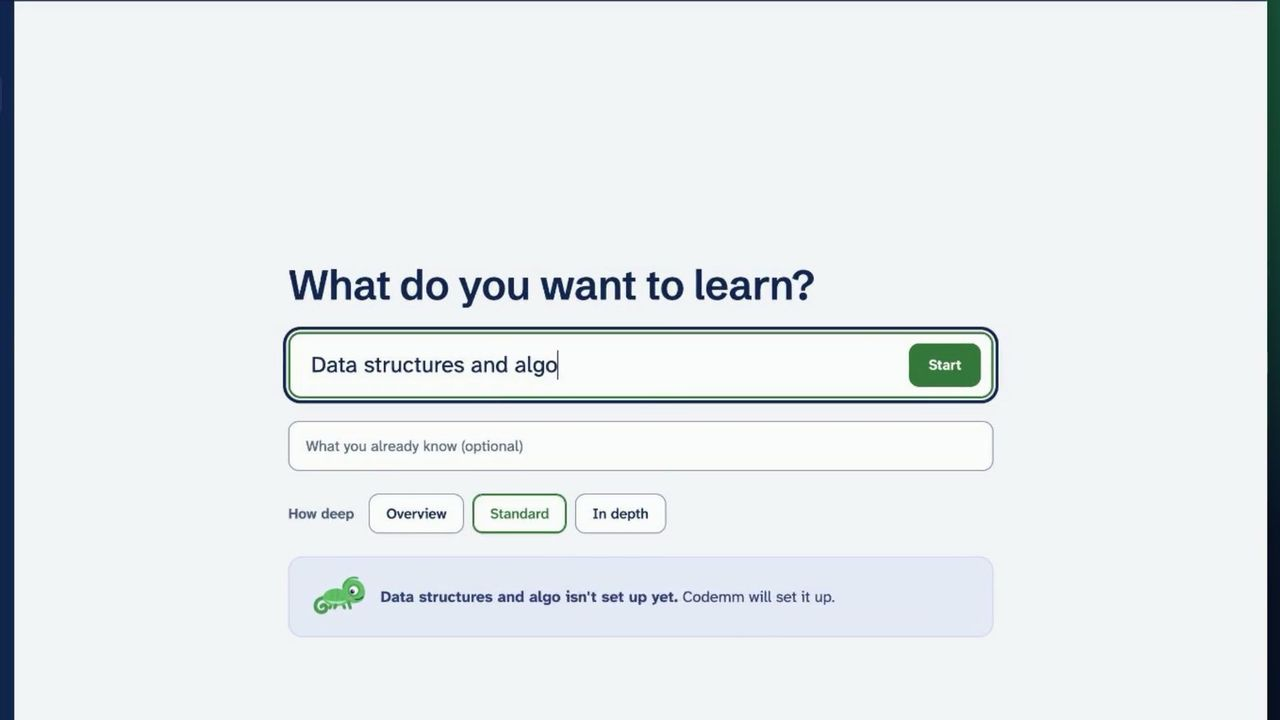
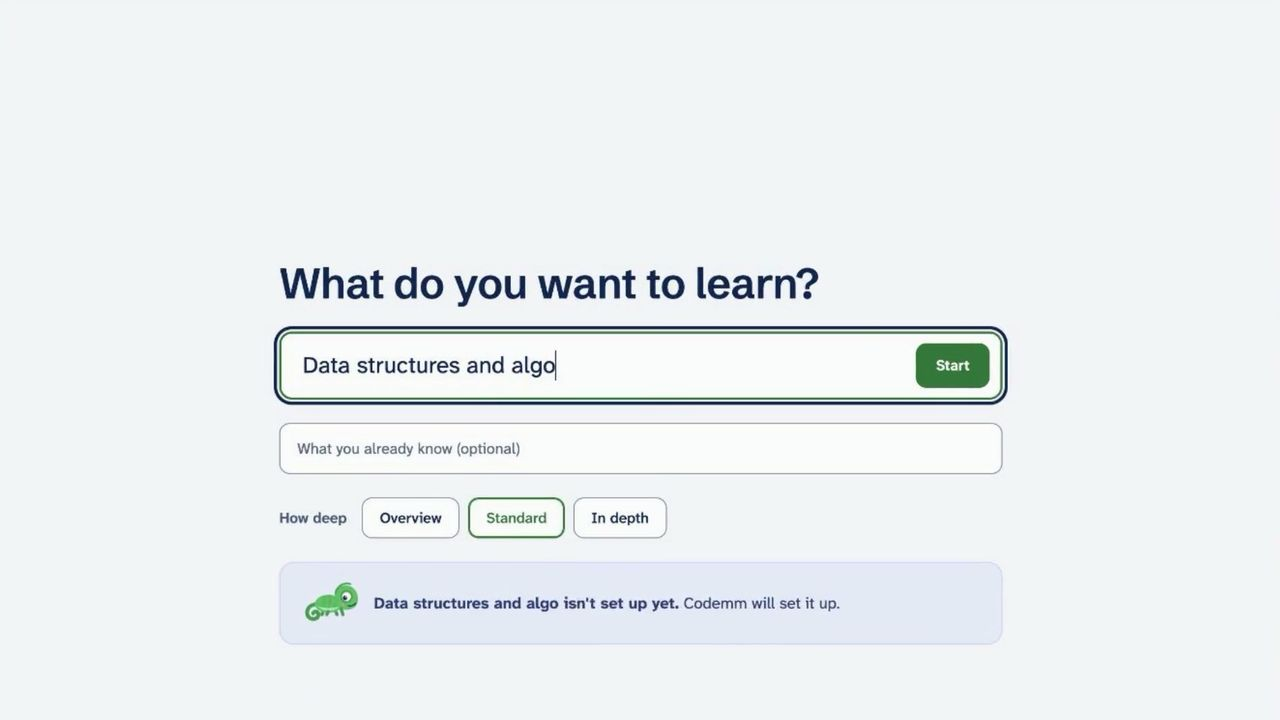
Blend the Codemm video into the open-source sculptures
Show the poster as a tilted glass card in the sculpture glow, matching
Snapline and Grape, and start the native player only when the visitor
presses play. The poster loses the recording's dark edge strips, and no
video bytes load before play.

diff --git a/app/globals.css b/app/globals.css
@@ -1026,10 +1026,54 @@ button {
 .sculpture-lens span:nth-child(6) {
   transform: translateZ(60px);
 }
-.tool-sculpture video {
+.tool-video {
+  position: relative;
+}
+.tool-video video {
   min-height: 0;
-  max-width: 100%;
-  max-height: 100%;
+  max-width: 82%;
+  max-height: 72%;
+  border: 1px solid rgb(55 69 94 / 30%);
+  border-radius: 14px;
+  box-shadow: 16px 24px 40px rgb(43 56 79 / 16%);
+  transform: rotateX(8deg) rotateY(-16deg);
+}
+.tool-video[data-playing] video {
+  transform: none;
+}
+.tool-video-play {
+  position: absolute;
+  inset: 0;
+  width: 100%;
+  height: 100%;
+  background: transparent;
+  border: 0;
+  cursor: pointer;
+}
+.tool-video-play::before,
+.tool-video-play::after {
+  content: '';
+  position: absolute;
+  top: 50%;
+  left: 50%;
+}
+.tool-video-play::before {
+  width: 56px;
+  height: 56px;
+  margin: -28px 0 0 -28px;
+  border: 1px solid rgb(55 69 94 / 30%);
+  border-radius: 50%;
+  background: rgb(255 255 255 / 85%);
+  box-shadow: 0 8px 24px rgb(43 56 79 / 16%);
+}
+.tool-video-play::after {
+  margin: -9px 0 0 -5px;
+  border-left: 15px solid var(--ink);
+  border-block: 9px solid transparent;
+}
+.tool-video-play:focus-visible {
+  outline: 2px solid var(--accent);
+  outline-offset: -4px;
 }
 .tool-links {
   display: flex;
@@ -1301,8 +1345,12 @@ button {
 /* Pointer perspective adds depth without changing the accessible document. */
 @media (hover: hover) and (pointer: fine) and (prefers-reduced-motion: no-preference) {
   .sculpture-stack span,
-  .sculpture-lens span {
+  .sculpture-lens span,
+  .tool-video video {
     transition: transform 500ms cubic-bezier(0.22, 1, 0.36, 1);
+  }
+  .tool:hover .tool-video:not([data-playing]) video {
+    transform: rotateX(4deg) rotateY(-8deg);
   }
   .tool:hover .sculpture-stack span:nth-child(1) {
     transform: translateZ(-60px);

diff --git a/components/OpenSourceShowcase.jsx b/components/OpenSourceShowcase.jsx
@@ -1,6 +1,7 @@
 import Section from '@/components/Section';
 import SpatialSurface from '@/components/SpatialSurface';
 import ToolSculpture from '@/components/ToolSculpture';
+import ToolVideo from '@/components/ToolVideo';
 import { openSource, projects } from '@/data/projects';
 
 export default function OpenSourceShowcase() {
@@ -20,18 +21,12 @@ export default function OpenSourceShowcase() {
             aria-labelledby={`${repo.id}-title`}
           >
             {repo.video ? (
-              <div className="tool-sculpture">
-                <video
-                  controls
-                  playsInline
-                  preload="metadata"
-                  poster={repo.poster}
-                  aria-label={`${repo.name} launch video`}
-                >
-                  <source src={repo.video} type="video/mp4" />
-                  <a href={repo.launchVideo}>Watch the {repo.name} launch video</a>
-                </video>
-              </div>
+              <ToolVideo
+                name={repo.name}
+                src={repo.video}
+                poster={repo.poster}
+                href={repo.launchVideo}
+              />
             ) : (
               <ToolSculpture kind={repo.id} />
             )}

diff --git a/components/ToolVideo.jsx b/components/ToolVideo.jsx
@@ -1,0 +1,45 @@
+'use client';
+
+import { useEffect, useRef, useState } from 'react';
+
+/** Poster first: the video loads and shows native controls only after the visitor presses play. */
+export default function ToolVideo({ name, src, poster, href }) {
+  const video = useRef(null);
+  const [playing, setPlaying] = useState(false);
+
+  useEffect(() => {
+    if (playing) video.current.focus();
+  }, [playing]);
+
+  function play() {
+    setPlaying(true);
+    video.current.play().catch(() => {});
+  }
+
+  return (
+    <div className="tool-sculpture tool-video" data-playing={playing || undefined}>
+      <noscript>
+        <style>{`.tool-video-play { display: none; }`}</style>
+      </noscript>
+      <video
+        ref={video}
+        controls={playing}
+        playsInline
+        preload="none"
+        poster={poster}
+        aria-label={`${name} launch video`}
+      >
+        <source src={src} type="video/mp4" />
+        <a href={href}>Watch the {name} launch video</a>
+      </video>
+      {!playing && (
+        <button
+          type="button"
+          className="tool-video-play"
+          aria-label={`Play the ${name} launch video`}
+          onClick={play}
+        />
+      )}
+    </div>
+  );
+}
